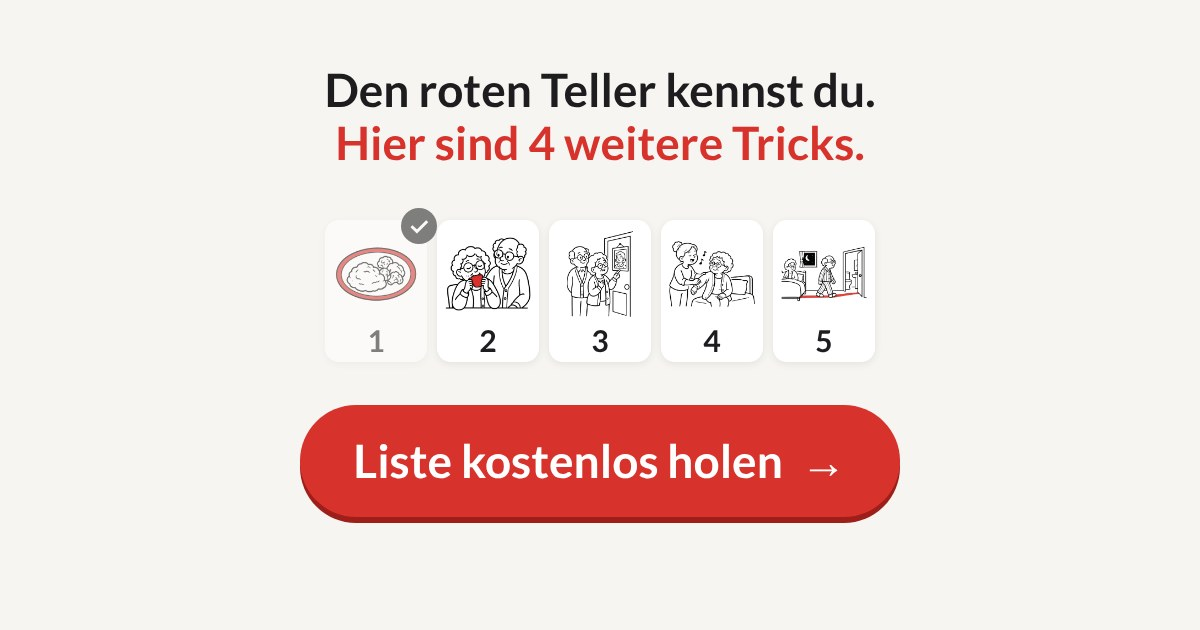
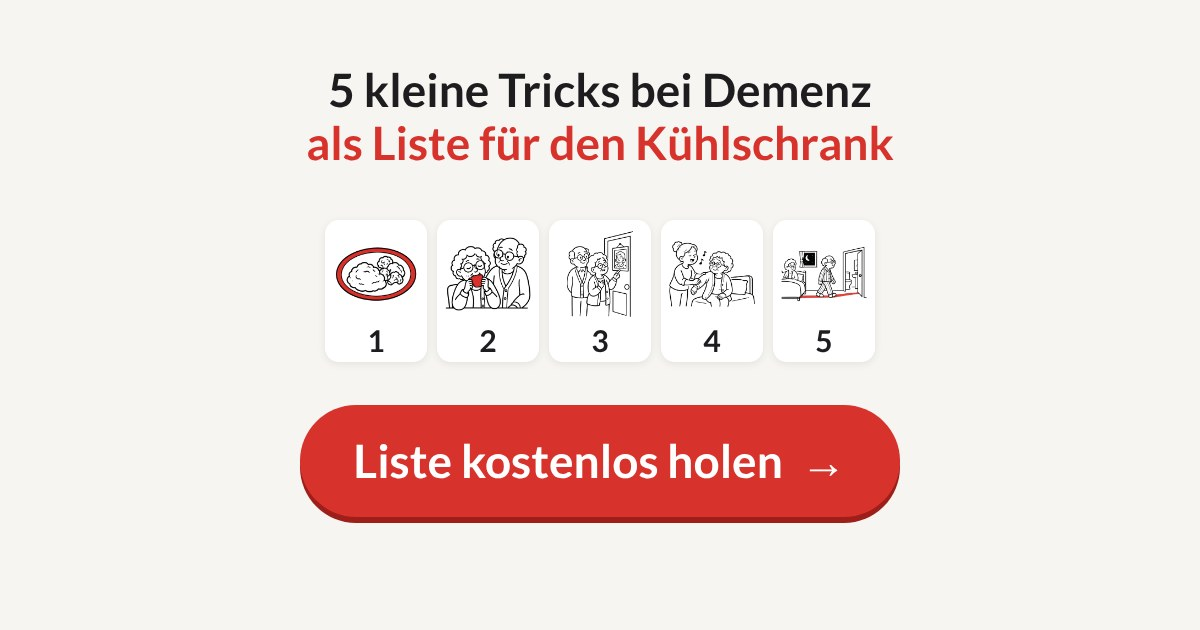
Vorschaubild: neue Überschrift „5 kleine Tricks bei Demenz“, Titel angepasst
Claude-Session: https://claude.ai/code/session_01Hb2krZRkUMSxqUzGtXRmVD

diff --git a/teller/index.html b/teller/index.html
@@ -10,13 +10,13 @@
   <meta property="og:type" content="website">
   <meta property="og:site_name" content="Demenz Coach">
   <meta property="og:locale" content="de_DE">
-  <meta property="og:title" content="Den roten Teller kennst du? Hier sind 4 weitere Tricks bei Demenz">
-  <meta property="og:description" content="Alle 5 kleinen Tricks kostenlos als Liste für den Kühlschrank. Von Altenpflegerin Debby.">
+  <meta property="og:title" content="5 kleine Tricks bei Demenz, kostenlos als Liste für den Kühlschrank">
+  <meta property="og:description" content="Vom roten Teller bis zum Nachtlicht: einfache Tricks für zuhause. Von Altenpflegerin Debby.">
   <meta property="og:url" content="https://dementiacoachapp.com/teller/">
   <meta property="og:image" content="https://dementiacoachapp.com/teller/og-teller.jpg">
   <meta property="og:image:width" content="1200">
   <meta property="og:image:height" content="630">
-  <meta property="og:image:alt" content="Den roten Teller kennst du. Hier sind 4 weitere Tricks. Fünf Zeichnungen der Tricks und der Hinweis auf die kostenlose Liste für den Kühlschrank.">
+  <meta property="og:image:alt" content="5 kleine Tricks bei Demenz als Liste für den Kühlschrank. Fünf Zeichnungen der Tricks und ein Knopf: Liste kostenlos holen.">
   <meta name="twitter:card" content="summary_large_image">
   <title>Mama isst nicht mehr? Der Rote-Teller-Trick | Demenz Coach</title>
   <link rel="canonical" href="https://dementiacoachapp.com/teller/">
